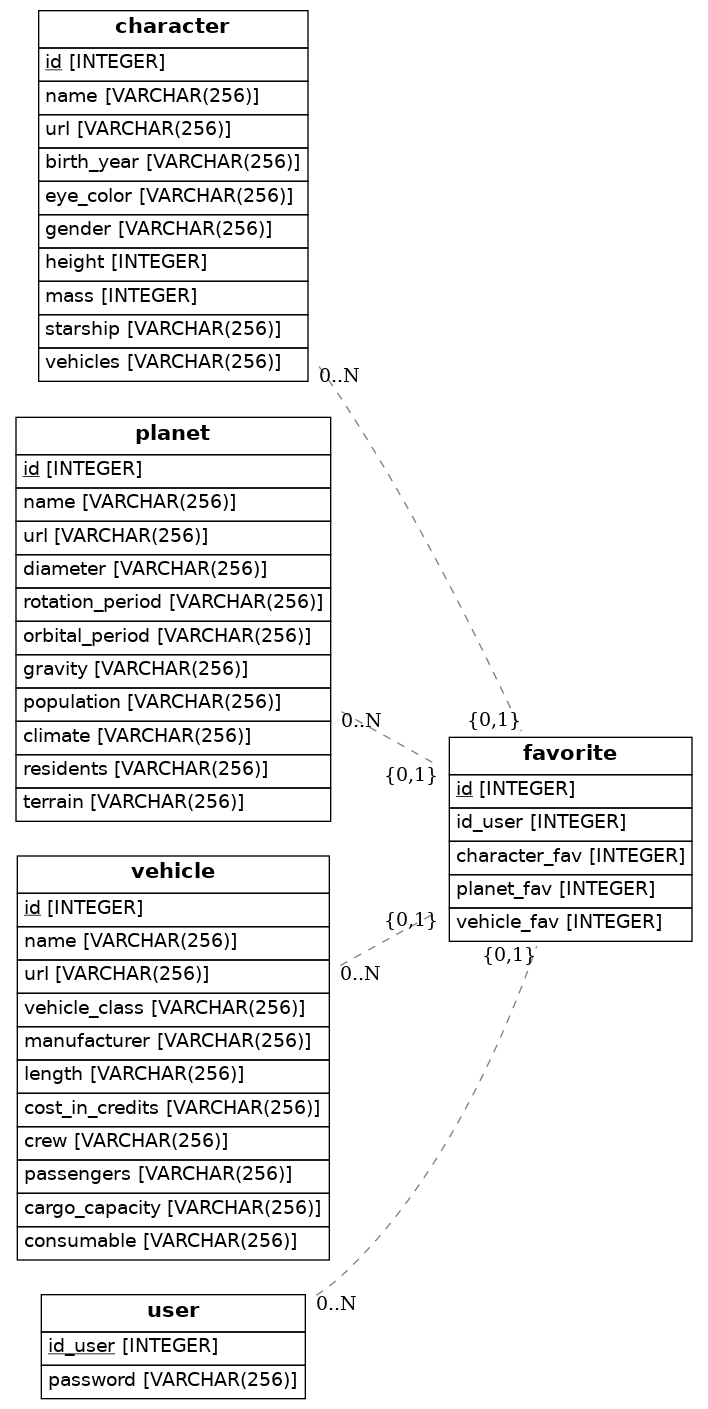
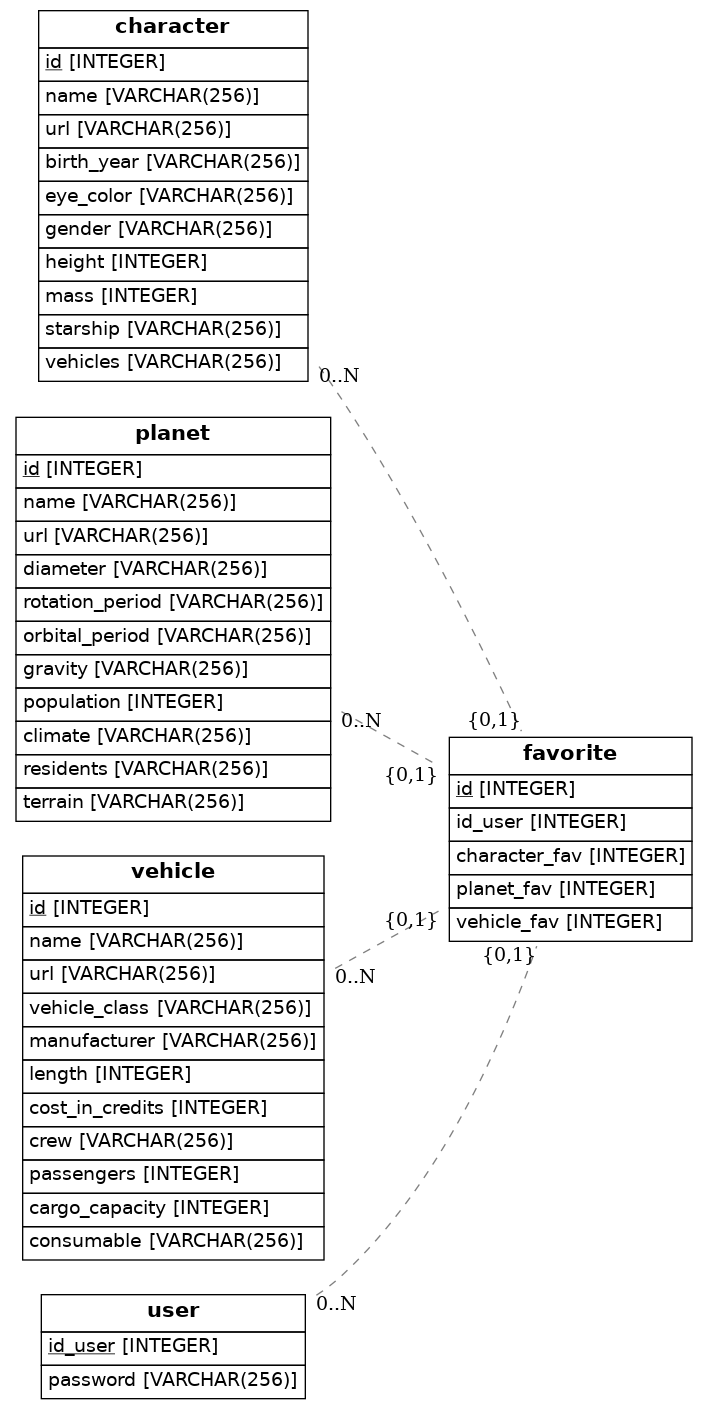
minor changes

Changed region(s): [[0.0, 0.5933, 0.5282, 0.9056], [0.1864, 0.4684, 0.3107, 0.4996], [0.3418, 0.4684, 0.3729, 0.4996]]

diff --git a/src/models.py b/src/models.py
@@ -35,7 +35,7 @@ class Planet(item):
     rotation_period=Column(String(256))
     orbital_period=Column(String(256))
     gravity=Column(String(256))
-    population=Column(String(256))
+    population=Column(Integer)
     climate=Column(String(256))
     residents=Column(String(256))
     terrain=Column(String(256))
@@ -45,11 +45,11 @@ class Vehicle(item):
     __tablename__='vehicle'
     vehicle_class=Column(String(256))
     manufacturer=Column(String(256))
-    length=Column(String(256))
-    cost_in_credits=Column(String(256))
+    length=Column(Integer)
+    cost_in_credits=Column(Integer)
     crew=Column(String(256))
-    passengers=Column(String(256))
-    cargo_capacity=Column(String(256))
+    passengers=Column(Integer)
+    cargo_capacity=Column(Integer)
     consumable=Column(String(256))
     children3=relationship("Favorite",back_populates="parent3")
 
